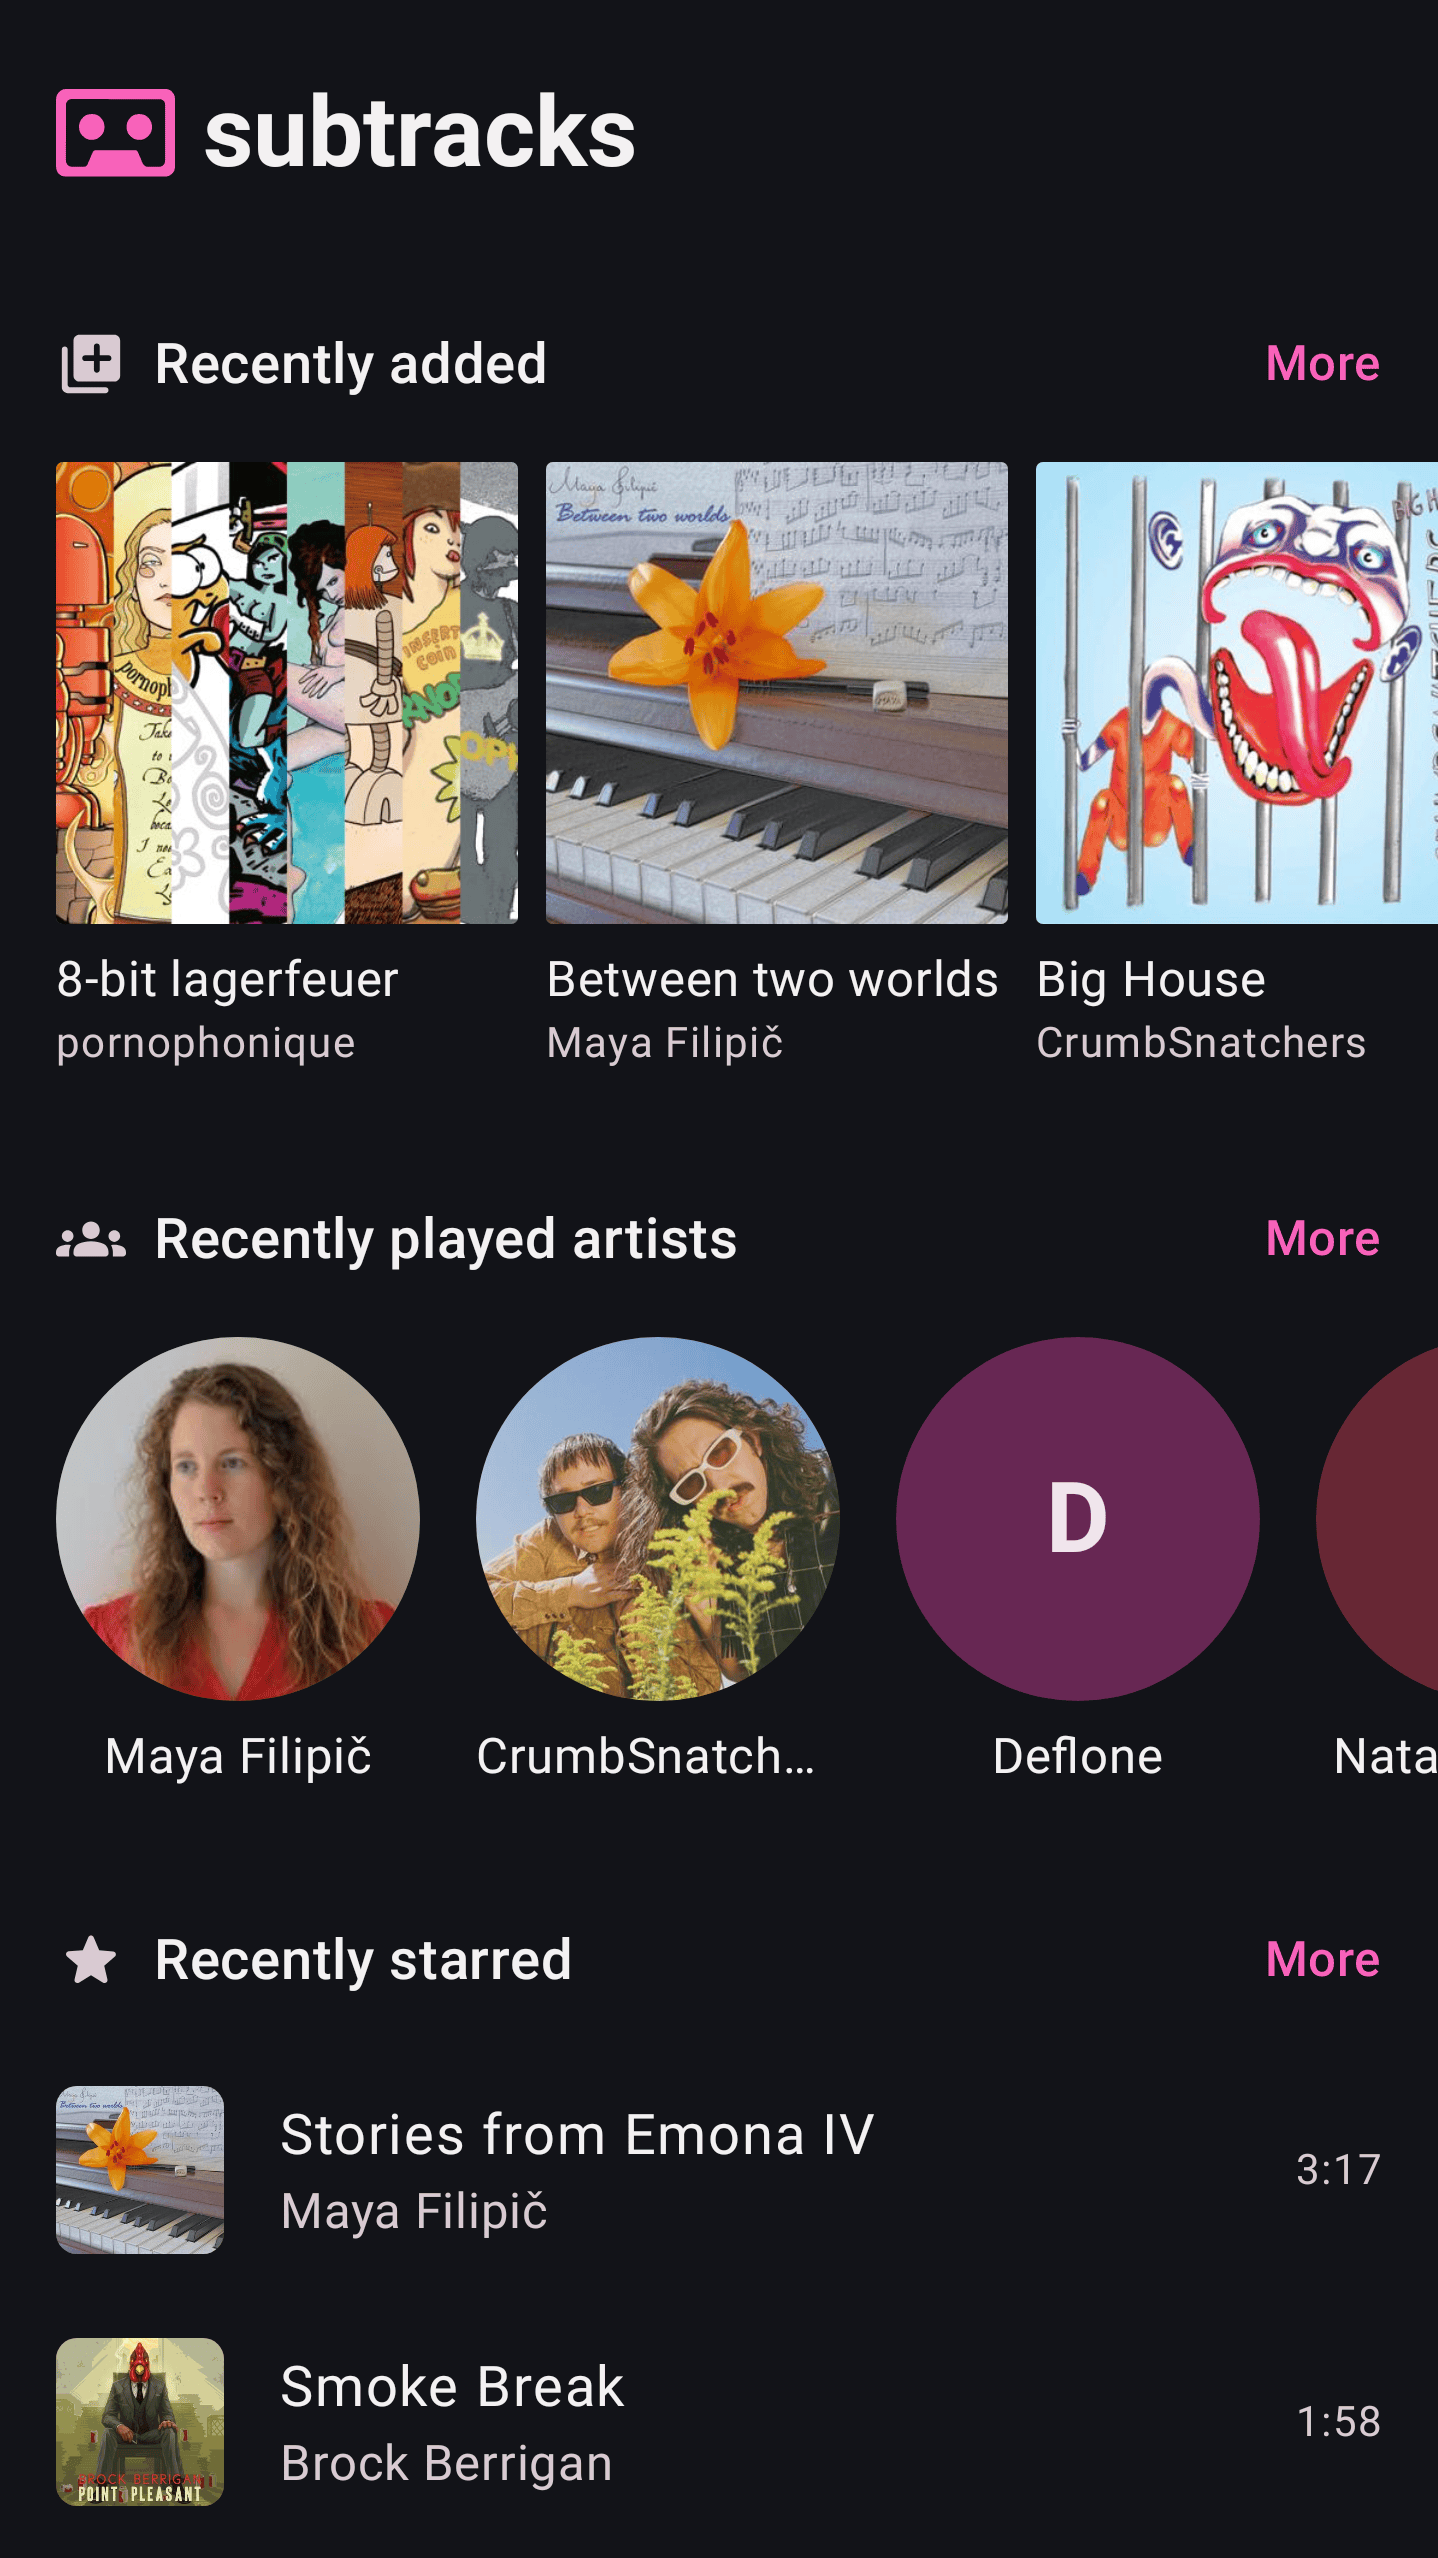
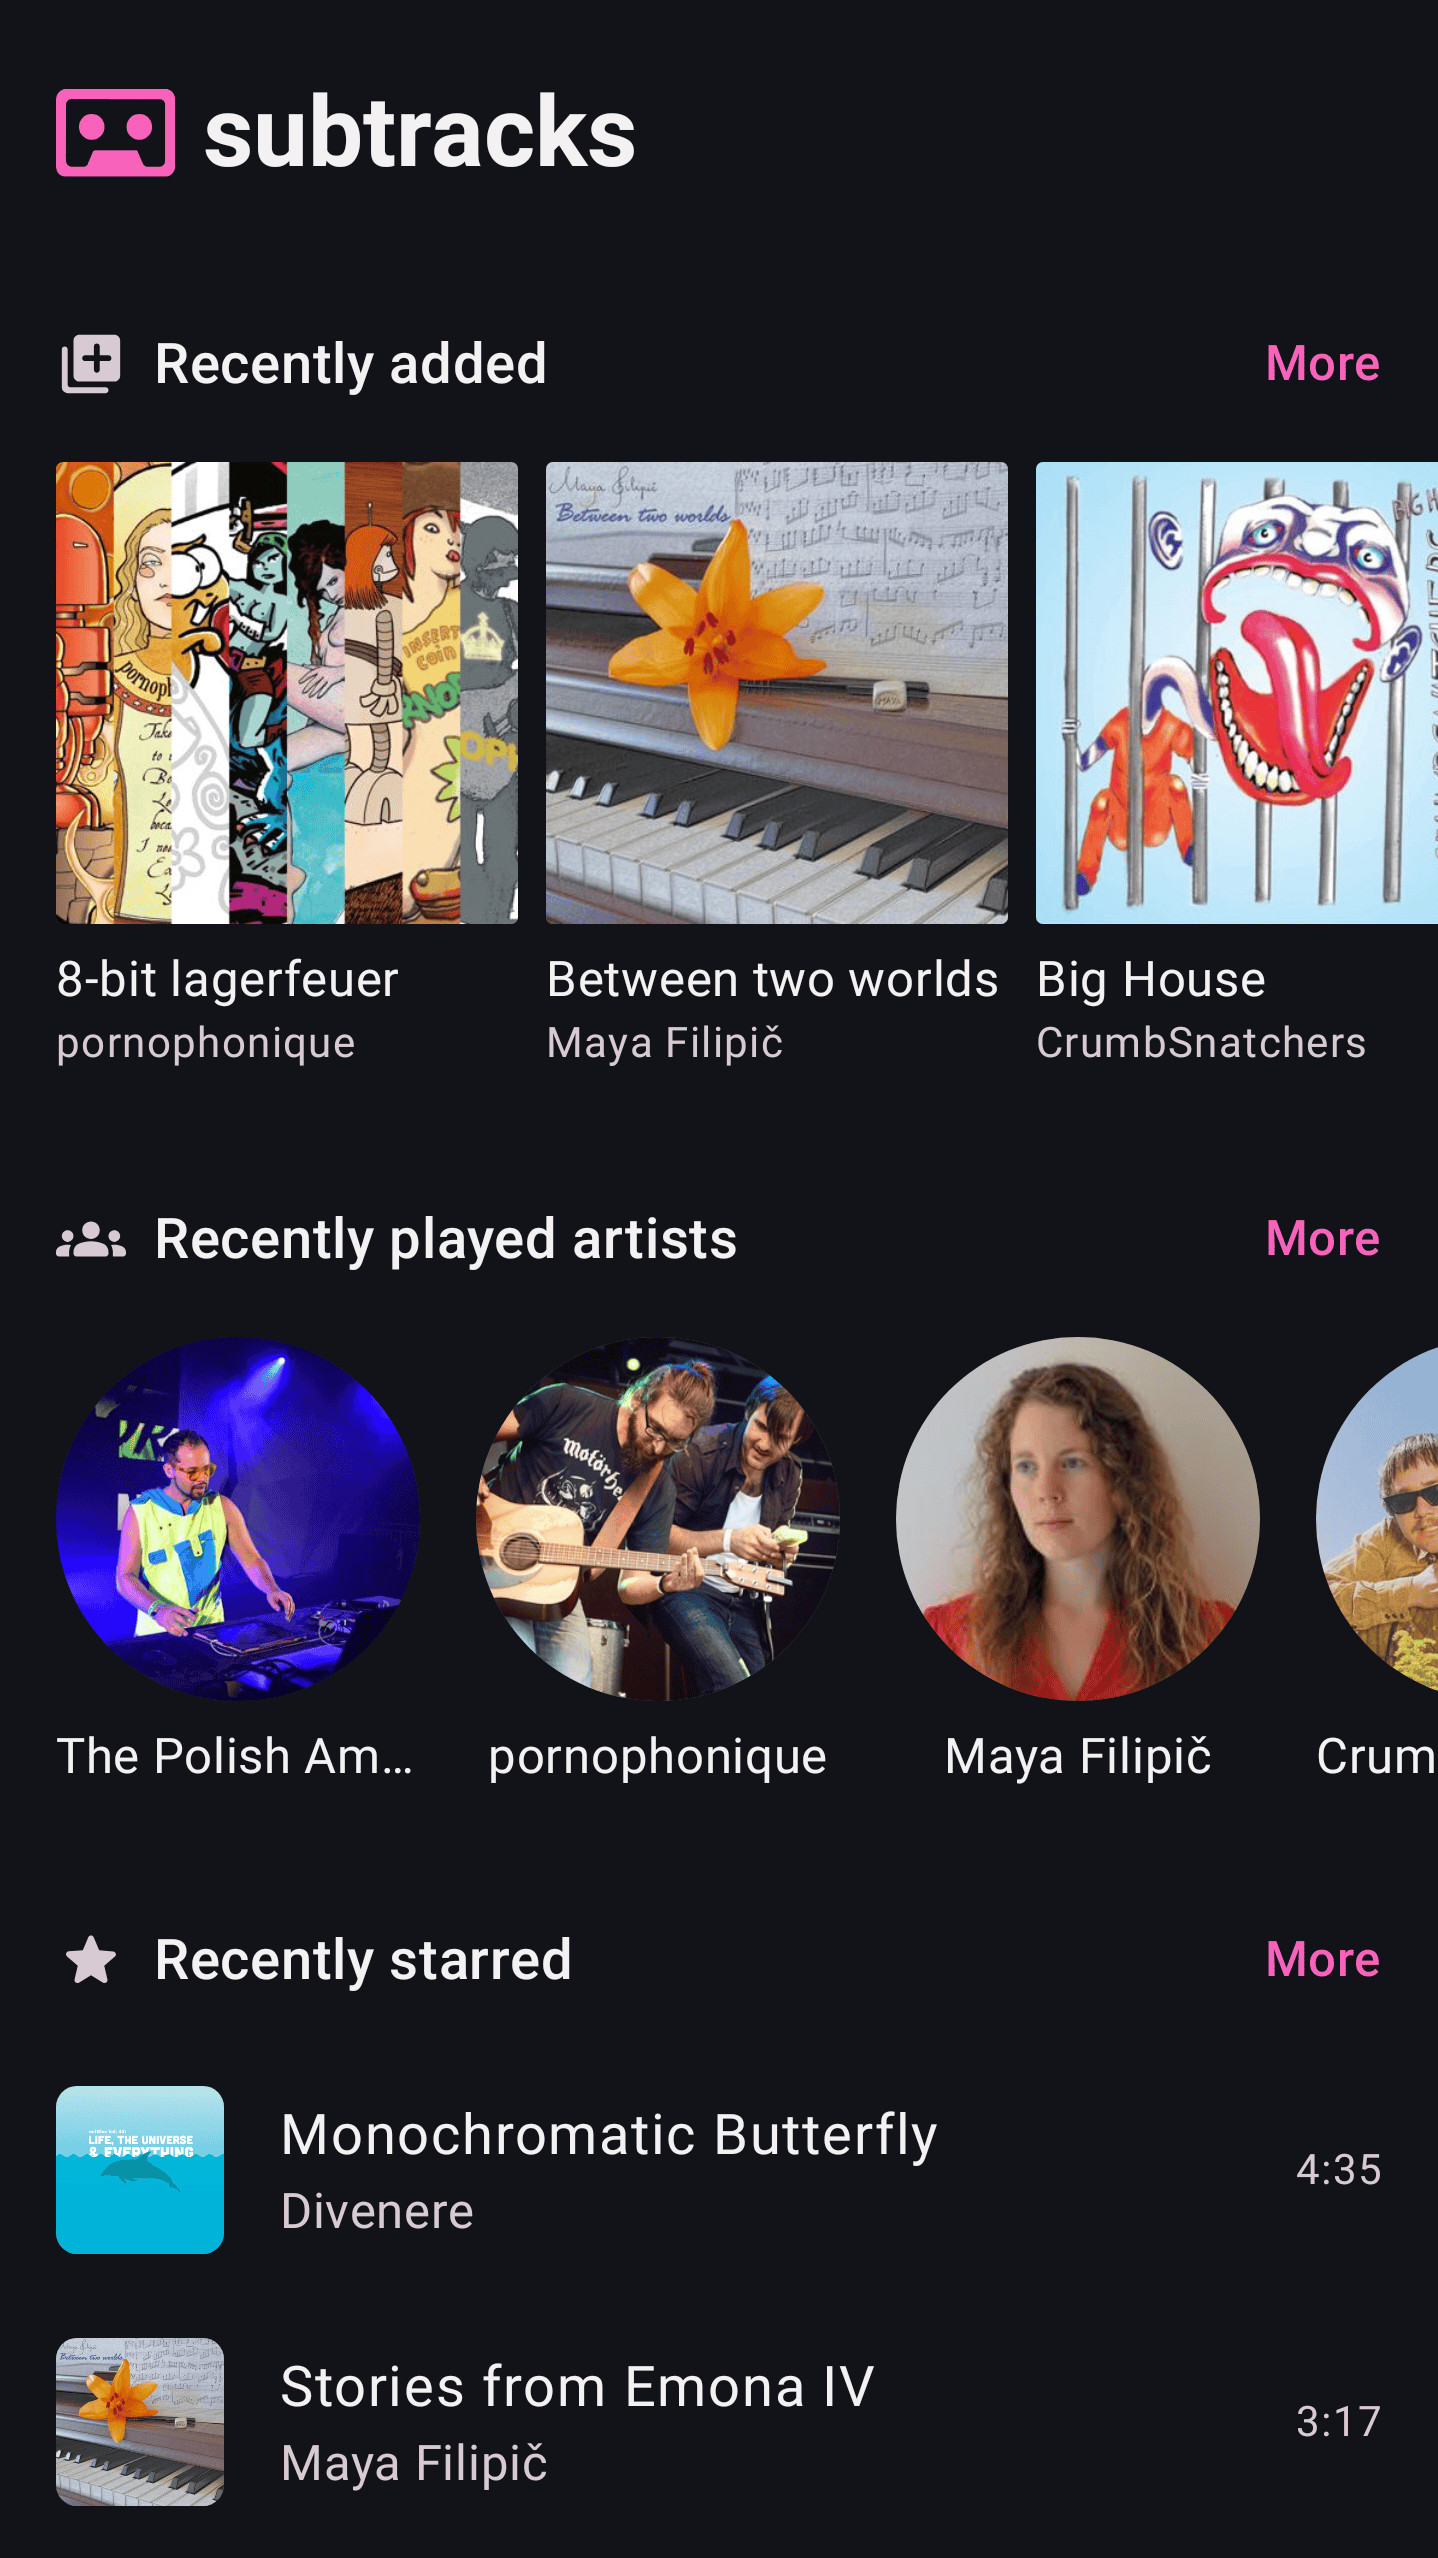
metadata: only show albums and artists that have cover art
The demo library has plenty of entries with no artwork, which render as
placeholders in the store screenshots. Filter the album and artist lists (and
the home rows) to entries the sync marked with a coverArt id, so no extra
image loads are needed to decide.

diff --git a/app/src/test/kotlin/com/subtracks/ui/DemoScreenshotTest.kt b/app/src/test/kotlin/com/subtracks/ui/DemoScreenshotTest.kt
@@ -386,46 +386,25 @@ class DemoScreenshotTest {
                     SyncService(db, source).sync()
 
                     val dao = db.libraryDao()
-                    val albums = dao.recentlyAddedAlbums(1, 500).first().sortedBy { it.name.lowercase() }
-                    val artists = dao.artistIds(1).mapNotNull { dao.artist(1, it).first() }
+                    val allAlbums = dao.recentlyAddedAlbums(1, 500).first()
+                    val allArtists = dao.artistIds(1).mapNotNull { dao.artist(1, it).first() }
                     val playlists = dao.playlistIds(1).mapNotNull { dao.playlist(1, it).first() }
 
-                    val nowPlayingAlbum = albums.firstOrNull { it.name == "Chillhop Essentials - Winter 2016" } ?: albums.first()
+                    val nowPlayingAlbum = allAlbums.firstOrNull { it.name == "Chillhop Essentials - Winter 2016" } ?: allAlbums.first()
                     val nowPlayingSongs = dao.songsByAlbum(1, nowPlayingAlbum.id).first()
                     val nowPlayingSong = nowPlayingSongs.getOrNull(1) ?: nowPlayingSongs.first()
-                    val album = albums.firstOrNull { it.name == "My latin way" } ?: albums.first()
+                    val album = allAlbums.firstOrNull { it.name == "My latin way" } ?: allAlbums.first()
                     val albumSongs = dao.songsByAlbum(1, album.id).first()
-                    val homePlayingAlbum = albums.firstOrNull { it.name == "Shaking The Habitual" } ?: albums.last()
+                    val homePlayingAlbum = allAlbums.firstOrNull { it.name == "Shaking The Habitual" } ?: allAlbums.last()
                     val homePlayingSong = dao.songsByAlbum(1, homePlayingAlbum.id).first().first()
                     val artist =
-                        artists.firstOrNull { it.name == "Ugress" }
-                            ?: artists.maxByOrNull { it.albumCount }
-                            ?: artists.first()
+                        allArtists.firstOrNull { it.name == "Ugress" }
+                            ?: allArtists.maxByOrNull { it.albumCount }
+                            ?: allArtists.first()
                     val artistAlbums = dao.albumsForArtist(1, artist.id).first()
 
-                    fun namedArtists(artists: List<Artist>) = artists.filterNot { it.name.equals("Various Artists", ignoreCase = true) }
-                    val feed =
-                        HomeFeed(
-                            recentlyPlayedAlbums = dao.recentlyPlayedAlbums(1, 10).first(),
-                            recentlyPlayedArtists = namedArtists(dao.recentlyPlayedArtists(1, 10).first()),
-                            mostPlayedAlbums = dao.mostPlayedAlbums(1, 10).first(),
-                            mostPlayedArtists = namedArtists(dao.mostPlayedArtists(1, 10).first()),
-                            genres = dao.genresByMostPlayed(1).first(),
-                            decades = dao.decades(1).first(),
-                            recentlyStarredSongs = dao.recentlyStarredSongs(1, 10).first(),
-                            recentlyAddedAlbums = albums.take(10),
-                            rediscoverAlbums = dao.rediscoverAlbums(1, System.currentTimeMillis() / 1000, 10).first(),
-                        )
-
-                    val searchAlbums =
-                        albums
-                            .filter {
-                                it.name.contains(DEMO_SEARCH, ignoreCase = true) ||
-                                    (it.albumArtist ?: "").contains(DEMO_SEARCH, ignoreCase = true)
-                            }.ifEmpty { albums.take(4) }
-
                     val coverArtIds =
-                        (albums.map { it.coverArt } + artists.map { it.coverArt } + playlists.map { it.coverArt })
+                        (allAlbums.map { it.coverArt } + allArtists.map { it.coverArt } + playlists.map { it.coverArt })
                             .filterNotNull()
                             .distinct()
 
@@ -451,6 +430,34 @@ class DemoScreenshotTest {
                             }
                         source.coverArtUri(id, false)?.let { builder.intercept(it.toString(), image.asImage()) }
                     }
+
+                    val albums = allAlbums.sortedBy { it.name.lowercase() }.filter { it.coverArt != null }
+                    val artists = allArtists.filter { it.coverArt != null }
+
+                    fun namedArtists(list: List<Artist>) =
+                        list.filter { it.coverArt != null && !it.name.equals("Various Artists", ignoreCase = true) }
+
+                    fun coveredAlbums(list: List<Album>) = list.filter { it.coverArt != null }
+
+                    val feed =
+                        HomeFeed(
+                            recentlyPlayedAlbums = coveredAlbums(dao.recentlyPlayedAlbums(1, 10).first()),
+                            recentlyPlayedArtists = namedArtists(dao.recentlyPlayedArtists(1, 10).first()),
+                            mostPlayedAlbums = coveredAlbums(dao.mostPlayedAlbums(1, 10).first()),
+                            mostPlayedArtists = namedArtists(dao.mostPlayedArtists(1, 10).first()),
+                            genres = dao.genresByMostPlayed(1).first(),
+                            decades = dao.decades(1).first(),
+                            recentlyStarredSongs = dao.recentlyStarredSongs(1, 10).first().filter { it.coverArt != null },
+                            recentlyAddedAlbums = albums.take(10),
+                            rediscoverAlbums = coveredAlbums(dao.rediscoverAlbums(1, System.currentTimeMillis() / 1000, 10).first()),
+                        )
+
+                    val searchAlbums =
+                        albums
+                            .filter {
+                                it.name.contains(DEMO_SEARCH, ignoreCase = true) ||
+                                    (it.albumArtist ?: "").contains(DEMO_SEARCH, ignoreCase = true)
+                            }.ifEmpty { albums.take(4) }
                     val fallback =
                         Bitmap
                             .createBitmap(1, 1, Bitmap.Config.ARGB_8888)
@@ -478,7 +485,7 @@ class DemoScreenshotTest {
                         homePlayingAlbum = homePlayingAlbum,
                         homePlayingSong = homePlayingSong,
                         artist = artist,
-                        artistAlbums = artistAlbums,
+                        artistAlbums = artistAlbums.filter { it.coverArt != null },
                         searchAlbums = searchAlbums,
                         coverArt = coverArt,
                         engine = engine,
